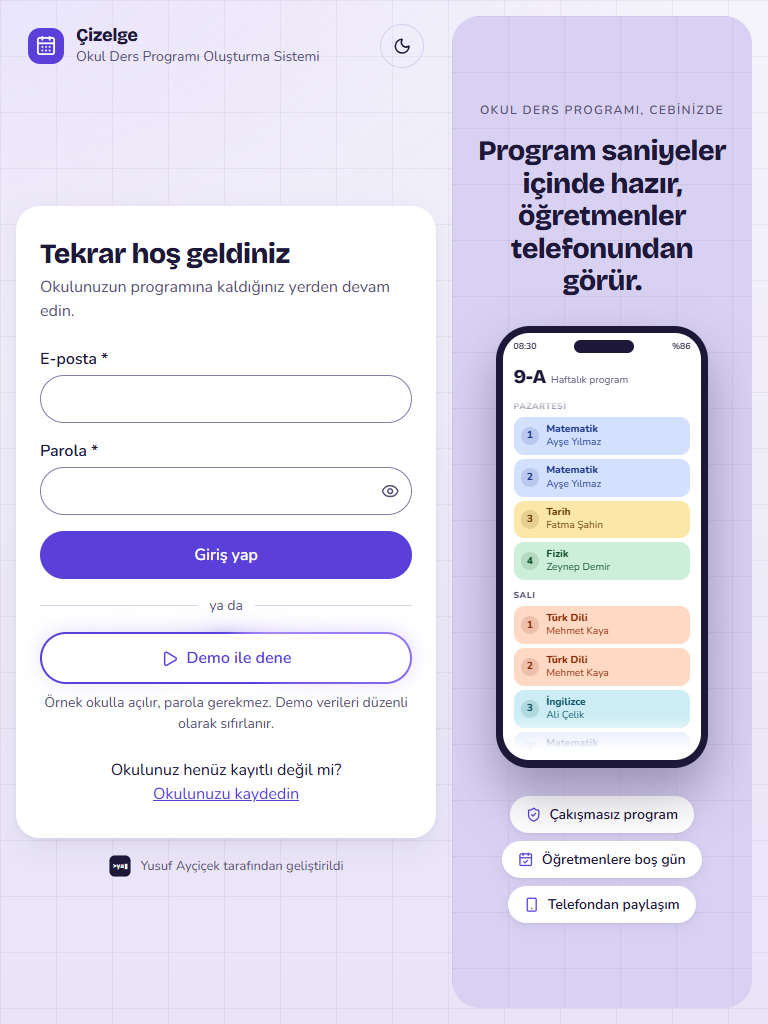
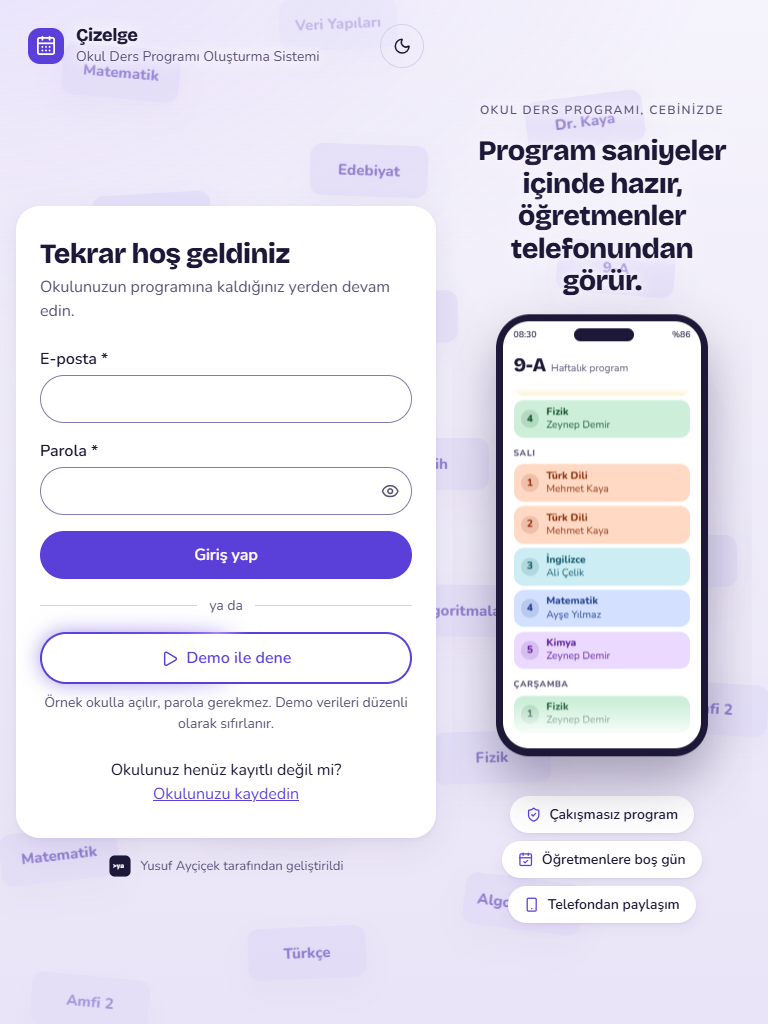
Giriş ekranı: ızgarasız zemin, şeffaf panel, süzülen ders kartları
Yalnızca giriş ekranı; iç sayfaların ızgarası aynen kalır. Sağ panelin
zemini kaldırıldı. Arka planda 22 soluk ders kartı (telefonda 10) alttan
üste süzülür; anahtar karelerde yalnızca sabit değerler var, animasyon
ekran kartında çalışır. Hareket azaltılmışsa kartlar dağılmış ve sabit.
Logo satırı, etiket, başlık ve çiplerde zemin renginde yazı halesi.
Ekran görüntüleri yenilendi.

diff --git a/web/src/kimlik/SuzulenKartlar.module.css b/web/src/kimlik/SuzulenKartlar.module.css
@@ -1,0 +1,102 @@
+/* Giriş ekranının arka planında alttan üste süzülen ders kartları (SuzulenKartlar.tsx).
+
+   Akıcılık için yalnızca transform ve opaklık, anahtar karelerde (keyframes) de yalnızca sabit
+   değerler var: değişken (var()) kullanan anahtar kareleri tarayıcı ekran kartına veremiyor, her
+   kareyi ana iş parçacığında yeniden hesaplıyor (ölçüldü: her karede stil ve yerleşim).
+
+   Yolun uzunluğu: her kart, katman boyunda bir "ray"ın içindedir. translateY'deki yüzde rayın
+   kendi yüksekliğidir, yani katmanın gerçek yüksekliği: translateY(100%) görünür alanın hemen
+   altı, translateY(-52px) üstünün hemen dışı. Ekran boyu ne olursa olsun yol alttan üste tamdır. */
+.katman {
+  --tur: 20s;
+  position: absolute;
+  inset: 0;
+  z-index: -1; /* .sayfa isolation: isolate; zeminin üstünde, içeriğin altında */
+  overflow: hidden;
+  pointer-events: none;
+}
+
+.ray {
+  /* g: yolun neresinde (0 = en alt, 1 = en üst). Hareket kapalıyken kart orada sabit durur. */
+  --g: var(--p);
+  position: absolute;
+  top: 0;
+  bottom: 0;
+  left: calc(var(--x) * (100% - 118px));
+  width: 118px;
+  transform: translate3d(0, calc((1 - var(--g)) * 100% - var(--g) * 52px), 0);
+  opacity: 0.55;
+  animation: suzul var(--tur) linear infinite;
+  animation-delay: calc(var(--g) * var(--tur) * -1);
+  will-change: transform, opacity;
+}
+
+.kart {
+  height: 52px;
+  display: grid;
+  place-items: center;
+  border-radius: 12px;
+  white-space: nowrap;
+  font-family: var(--yazi-ailesi); /* Nunito */
+  font-weight: 800;
+  font-size: 15px;
+  background: color-mix(in srgb, var(--renk-birincil) 16%, var(--renk-sayfa));
+  color: var(--renk-birincil-koyu);
+  box-shadow: 0 12px 28px rgb(40 24 100 / 0.05);
+  /* Hareket kapalıyken yolun o noktasındaki açı: a'dan -a'ya doğrusal. */
+  transform: rotate(calc(var(--a) * (1 - 2 * var(--g))));
+  animation: don10 var(--tur) linear infinite; /* açı sınıfı (aşağıda) adı değiştirir */
+  animation-delay: inherit;
+  will-change: transform;
+}
+
+/* Opaklık başta hızla 0.55'e çıkar, sonda 0'a iner: kartlar arka planda kalır, yazılarla yarışmaz. */
+@keyframes suzul {
+  0% {
+    transform: translate3d(0, 100%, 0);
+    opacity: 0;
+  }
+  6% {
+    opacity: 0.55;
+  }
+  90% {
+    opacity: 0.55;
+  }
+  100% {
+    transform: translate3d(0, -52px, 0);
+    opacity: 0;
+  }
+}
+
+/* Dönüş: a'dan ters yöne (-a). Açılar sabit olsun diye altı küme; kart sınıfıyla seçilir
+   (SuzulenKartlar.tsx DONUSLER). */
+.donEksi10 { animation-name: donEksi10; }
+.donEksi6 { animation-name: donEksi6; }
+.donEksi3 { animation-name: donEksi3; }
+.don3 { animation-name: don3; }
+.don6 { animation-name: don6; }
+.don10 { animation-name: don10; }
+@keyframes donEksi10 { from { transform: rotate(-10deg); } to { transform: rotate(10deg); } }
+@keyframes donEksi6 { from { transform: rotate(-6deg); } to { transform: rotate(6deg); } }
+@keyframes donEksi3 { from { transform: rotate(-3deg); } to { transform: rotate(3deg); } }
+@keyframes don3 { from { transform: rotate(3deg); } to { transform: rotate(-3deg); } }
+@keyframes don6 { from { transform: rotate(6deg); } to { transform: rotate(-6deg); } }
+@keyframes don10 { from { transform: rotate(10deg); } to { transform: rotate(-10deg); } }
+
+/* Telefon (720 px altı): 10 kart, gecikmeler 10'a göre eşit aralıklı. */
+@media (max-width: 45rem) {
+  .ray {
+    --g: var(--p-tel);
+  }
+  .ray:nth-child(n + 11) {
+    display: none;
+  }
+}
+
+/* Hareket azaltılmışsa temel.css animasyonları kapatır; kartlar yollarına dağılmış, sabit durur. */
+@media (prefers-reduced-motion: reduce) {
+  .ray,
+  .kart {
+    will-change: auto;
+  }
+}

diff --git a/web/src/kimlik/Giris.module.css b/web/src/kimlik/Giris.module.css
@@ -6,8 +6,18 @@
   grid-template-columns: 26.25rem minmax(0, 1fr); /* 420 px */
   gap: var(--bosluk-4);
   padding: var(--bosluk-4);
-  /* Zemin ve ızgara kökten (temel.css); üstünde vurgu renginden hafif bir ışık. */
-  background: radial-gradient(50rem 30rem at -10% -10%, color-mix(in srgb, var(--renk-parlak) 18%, transparent), transparent);
+  /* Kökteki ızgarayı (temel.css) örter: giriş ekranında yalnızca hafif geçiş ve vurgu renginden
+     bir ışık var, ızgara yok. İç sayfalar kökün ızgarasını görmeye devam eder. */
+  background:
+    radial-gradient(50rem 30rem at -10% -10%, color-mix(in srgb, var(--renk-parlak) 18%, transparent), transparent),
+    linear-gradient(180deg, var(--renk-sayfa), var(--renk-sayfa-2));
+  /* Süzülen kartlar (SuzulenKartlar) bu kutunun içinde, içeriğin altında. */
+  position: relative;
+  isolation: isolate;
+  /* Zemin renginde yumuşak hale: arkadan bir kart geçerken de yazı net okunur. Görünür kutu yok;
+     yalnızca harflerin çevresi zemin rengine döner. */
+  --yazi-halesi: 0 0 2px var(--renk-sayfa), 0 0 6px var(--renk-sayfa), 0 0 10px var(--renk-sayfa),
+    0 0 16px var(--renk-sayfa);
 }
 
 .sol {
@@ -23,6 +33,7 @@
   padding: var(--bosluk-2) var(--bosluk-3);
   color: var(--renk-metin);
   font-size: var(--yazi-buyuk);
+  text-shadow: var(--yazi-halesi);
 }
 /* Ürün logosu: takvim ikonu, vurgu renginde. (">ya" yalnızca alttaki imzadadır.) */
 .logo {
@@ -245,14 +256,10 @@
   flex-direction: column;
   justify-content: center;
   padding: clamp(var(--bosluk-5), 3vw, 3rem);
-  border-radius: var(--kose-pencere);
   overflow: hidden;
   color: var(--renk-metin);
-  background-color: var(--renk-panel);
-  background-image:
-    linear-gradient(var(--renk-izgara) 1px, transparent 1px),
-    linear-gradient(90deg, var(--renk-izgara) 1px, transparent 1px);
-  background-size: 56px 56px;
+  /* Şeffaf: telefonlar doğrudan sayfa zemininin (ve süzülen kartların) üstünde durur. */
+  background: none;
 }
 /* İçerik tek grup, panelin ortasında; yazılar da ortalı. */
 .panelIcerik {
@@ -272,6 +279,7 @@
   font-weight: var(--yazi-kalin);
   letter-spacing: 0.12em;
   color: var(--renk-metin-ikincil);
+  text-shadow: var(--yazi-halesi);
 }
 .panelBasligi {
   margin: 0;
@@ -279,6 +287,7 @@
   font-size: clamp(1.625rem, 1rem + 1.6vw, 2.5rem); /* 26–40 px */
   line-height: 1.15;
   font-weight: 800;
+  text-shadow: var(--yazi-halesi);
 }
 
 /* Sahne: telefonlar ve arkalarındaki hale. Eğilme için derinlik (perspective) buradadır. */
@@ -675,6 +684,8 @@
   font-size: var(--yazi-kucuk);
   font-weight: var(--yazi-kalin);
   box-shadow: var(--golge);
+  /* Çipin kendi zemini dolu; hale de onun renginde (sayfa zemininde değil), çipte iz bırakmaz. */
+  text-shadow: 0 0 2px var(--renk-zemin), 0 0 6px var(--renk-zemin), 0 0 16px var(--renk-zemin);
 }
 .etiketler svg {
   width: 1.1em;
@@ -708,7 +719,6 @@
     padding: var(--bosluk-3) 0 var(--bosluk-2);
   }
   .panel {
-    border-radius: var(--kose-kart);
     padding: var(--bosluk-5) var(--bosluk-4);
   }
 }

diff --git a/web/src/kimlik/SuzulenKartlar.tsx b/web/src/kimlik/SuzulenKartlar.tsx
@@ -1,0 +1,50 @@
+import type { CSSProperties } from "react";
+import stil from "./SuzulenKartlar.module.css";
+
+/**
+ * Giriş ekranının arka planı: alttan üste süzülen soluk ders kartları. Yalnızca süs: ekran
+ * okuyucudan gizli, tıklanmaz. Hareket tamamen CSS'tir ve ekran kartında çalışır (transform ve
+ * opaklık); yolun uzunluğu katmanın gerçek yüksekliğidir (SuzulenKartlar.module.css "ray").
+ */
+
+export const KART_YAZILARI = [
+  "Matematik", "Veri Yapıları", "Fizik", "Amfi 2", "Türkçe", "Algoritmalar", "Kimya", "Lab 3",
+  "Tarih", "İngilizce", "Diferansiyel", "Biyoloji", "9-A", "Yazılım Müh. 2", "Edebiyat", "Dr. Kaya",
+];
+export const KART_SAYISI = 22;
+const TELEFON_KART_SAYISI = 10; // 720 px altında; fazlası CSS ile gizlenir
+
+// Başlangıç açıları; kart yolun sonunda ters yöne döner. CSS'te her biri için sabit anahtar kare var.
+const DONUSLER = [
+  { aci: -10, sinif: stil.donEksi10 }, { aci: 6, sinif: stil.don6 }, { aci: -3, sinif: stil.donEksi3 },
+  { aci: 10, sinif: stil.don10 }, { aci: -6, sinif: stil.donEksi6 }, { aci: 3, sinif: stil.don3 },
+];
+
+// i. kartın yatay yeri: 7, 22 ile aralarında asal olduğu için (i * 7) mod 22 her yeri bir kez verir;
+// art arda gelen kartlar ekranın uzak yerlerine düşer.
+export const KARTLAR = Array.from({ length: KART_SAYISI }, (_, i) => {
+  const { aci, sinif } = DONUSLER[i % DONUSLER.length] ?? { aci: 0, sinif: "" };
+  return {
+    yazi: KART_YAZILARI[i % KART_YAZILARI.length],
+    sinif,
+    stil: {
+      "--x": ((i * 7) % KART_SAYISI) / (KART_SAYISI - 1),
+      "--a": `${aci}deg`,
+      // Eşit aralıklı, negatif gecikme: sayfa açılır açılmaz yolun her yerinde bir kart vardır.
+      "--p": (i + 0.5) / KART_SAYISI,
+      "--p-tel": (Math.min(i, TELEFON_KART_SAYISI - 1) + 0.5) / TELEFON_KART_SAYISI,
+    } as CSSProperties,
+  };
+});
+
+export function SuzulenKartlar() {
+  return (
+    <div className={stil.katman} aria-hidden="true" data-testid="suzulen-kartlar">
+      {KARTLAR.map((k, i) => (
+        <div key={i} className={stil.ray} style={k.stil}>
+          <span className={`${stil.kart} ${k.sinif}`}>{k.yazi}</span>
+        </div>
+      ))}
+    </div>
+  );
+}

diff --git a/web/src/kimlik/SuzulenKartlar.test.tsx b/web/src/kimlik/SuzulenKartlar.test.tsx
@@ -1,0 +1,31 @@
+import { render, screen } from "@testing-library/react";
+import { describe, expect, it } from "vitest";
+import { KART_SAYISI, KART_YAZILARI, SuzulenKartlar } from "./SuzulenKartlar";
+
+describe("SuzulenKartlar", () => {
+  it("22 kart çizer, ekran okuyucudan gizlidir, bütün yazılar en az bir kez görünür", () => {
+    render(<SuzulenKartlar />);
+    const katman = screen.getByTestId("suzulen-kartlar");
+    expect(katman).toHaveAttribute("aria-hidden", "true");
+    const kartlar = [...katman.children] as HTMLElement[];
+    expect(kartlar).toHaveLength(KART_SAYISI);
+    const yazilar = new Set(kartlar.map((k) => k.textContent));
+    for (const y of KART_YAZILARI) expect(yazilar).toContain(y);
+  });
+
+  it("yatay yerler ve gecikmeler dağılmıştır: hiçbir iki kart aynı yerde ya da aynı anda değildir", () => {
+    render(<SuzulenKartlar />);
+    const kartlar = [...screen.getByTestId("suzulen-kartlar").children] as HTMLElement[];
+    const xler = new Set(kartlar.map((k) => k.style.getPropertyValue("--x")));
+    const pler = kartlar.map((k) => Number(k.style.getPropertyValue("--p")));
+    expect(xler.size).toBe(KART_SAYISI);
+    expect(new Set(pler).size).toBe(KART_SAYISI);
+    for (const p of pler) {
+      expect(p).toBeGreaterThan(0);
+      expect(p).toBeLessThan(1);
+    }
+    // İlk 10 kart (telefon) da yolun her yerine eşit aralıkla dağılır.
+    const telefon = kartlar.slice(0, 10).map((k) => Number(k.style.getPropertyValue("--p-tel")));
+    expect(new Set(telefon).size).toBe(10);
+  });
+});

diff --git a/web/src/kimlik/GirisSayfasi.tsx b/web/src/kimlik/GirisSayfasi.tsx
@@ -13,6 +13,7 @@ import { TemaDugmesi } from "../bilesenler/TemaDugmesi";
 import { UYGULAMA_ACIKLAMASI, UYGULAMA_ADI } from "../urun";
 import type { GirisDurumu } from "./KorumaliAlan";
 import { BEN_ANAHTARI, type Ben } from "./oturum";
+import { SuzulenKartlar } from "./SuzulenKartlar";
 import { TanitimPaneli } from "./TanitimPaneli";
 import stil from "./Giris.module.css";
 
@@ -99,6 +100,7 @@ export function GirisSayfasi() {
 
   return (
     <div className={stil.sayfa}>
+      <SuzulenKartlar />
       <div className={stil.sol}>
         <header className={stil.marka}>
           <CalendarDays aria-hidden="true" className={stil.logo} />
